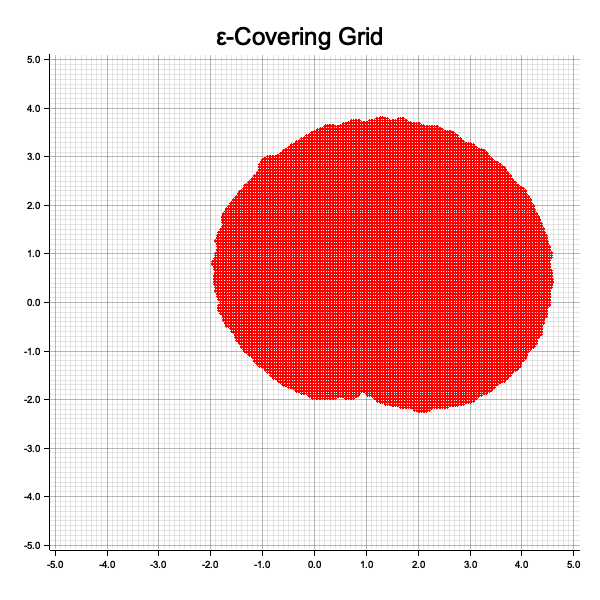
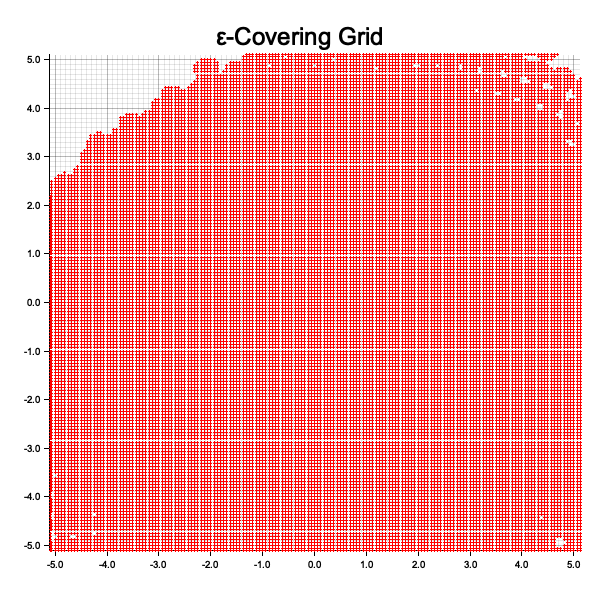
added brute force

diff --git a/src/main.rs b/src/main.rs
@@ -1,115 +1,55 @@
 use landau::covering_grids::{
-    self, create_covering_grid, extreme_points, plot_covering_grid, unit_disk_n,
+    self, create_covering_grid, extreme_points, grid_approx, grid_complement, unit_disk_n,
 };
 use landau::dyadic::{psi, ComplexDyadic, Dyadic, Interval};
 use landau::holomorphic::{
     comp_vec_to_sequence, vec_to_sequence, BoundingSequence, ComplexFunction, ExpansionCoefficients,
 };
+use landau::plot::{self, plot_covering_grid, plot_set};
 use landau::psi::{mu_first, mu_second, psi_infinity};
 
+use landau::covering_grids::{create_covering_grid, plot_covering_grid, unit_disk_n};
+use landau::dyadic::{psi, ComplexDyadic, Dyadic, Interval};
+use landau::holomorphic::{
+    comp_vec_to_sequence, vec_to_sequence, BoundingSequence, ComplexFunction, ExpansionCoefficients,
+};
+use landau::psi::{mu_first, mu_second, psi_infinity};
 use plotters::prelude::*;
-use landau::dyadic::{Dyadic, ComplexDyadic, Interval, psi} ;
-use landau::psi::{mu_first, mu_second, psi_infinity} ;
-use landau::covering_grids::{unit_disk_n, create_covering_grid, plot_covering_grid} ;
-use landau::holomorphic::{ComplexFunction, vec_to_sequence, comp_vec_to_sequence, BoundingSequence, ExpansionCoefficients} ;
 
 use std::collections::LinkedList;
 
-fn main() -> Result<(), Box<dyn std::error::Error>> 
-fn main() // Result<(), Box<dyn std::error::Error>>
-{
-    // let x = Dyadic::new(3, -1);
-    // let m_seq = vec![x.clone(), x.clone(), x.clone()];
-    // let x = Dyadic::new(3, -1) ;
-    // let m_seq = vec![x.clone(), x.clone(), x.clone()] ;
-    // let t_seq = vec![0, 1, 0, 1, 2, 1, 4, 1, 2, 4, 4, 3, 1, 4, 5];
-    // let word = vec![1, 3, 2, 1, 2, 4, 3, 1, 2, 3, 1, 2, 3, 1, 3, 2];
-    // let holo = psi_infinity(&m_seq, &t_seq, &word);
-    // let points1 = unit_disk_n(-1);
-
-    // let f = ComplexFunction::new(
-    //     BoundingSequence::new(m_seq),
-    //     ExpansionCoefficients::new(holo),
-    // );
-    // println!("Complex function compiled");
-    // TODO use holomprphic.rs to represent the f above, then run the following code
-    // let mut points2 = Vec::new() ;
-    // println!("{}", f.eval(ComplexDyadic::new(x.clone(), x.clone())));
-    let x = Dyadic::new(1, 0);
-    let m_seq = vec![x.clone(), x.clone(), x.clone()];
-    // This is a polynomial with factors 1, 1, 1
-    let holo = vec![
-        ComplexDyadic::new(Dyadic::new(1, 0), Dyadic::new(0, 0)),
-        ComplexDyadic::new(Dyadic::new(1, 0), Dyadic::new(0, 0)),
-        ComplexDyadic::new(Dyadic::new(1, 0), Dyadic::new(0, 0)),
-    ];
+fn main() -> Result<(), Box<dyn std::error::Error>> {
+    let x = Dyadic::new(5, -1);
+    let m_seq = vec![x.clone(), x.clone(), x.clone(), x.clone()];
+    let t_seq = vec![0, 1, 0, 1, 2, 0, 1, 2, 2, 0, 1, 2, 3, 0, 1, 2, 3, 0];
+    let word = vec![1, 1, 1, 3, 2, 1, 3, 1, 2, 3, 1, 2, 3, 1, 3, 2, 1, 2, 3, 2];
+    let holo = psi_infinity(&m_seq, &t_seq, &word);
+    for t in &holo {
+        println!("{}", t)
+    }
+    println!("done");
+    let points1 = unit_disk_n(-6);
 
     let f = ComplexFunction::new(
         BoundingSequence::new(m_seq),
         ExpansionCoefficients::new(holo),
     );
-    println!("Complex function compiled");
-
-    println!(
-        "Function result: {}, {:?}",
-        f.eval(ComplexDyadic::new(Dyadic::new(1, 0), Dyadic::new(1, 0))),
-        f.expansion_coefficients
-    );
-    println!(
-        "Derivative result: {}, {:?}",
-        f.derivative()
-            .eval(ComplexDyadic::new(Dyadic::new(1, 0), Dyadic::new(1, 0))),
-        f.derivative().expansion_coefficients
-    )
-    // let root = BitMapBackend::new("dyadic_disk.png", (600, 600)).into_drawing_area();
-    // root.fill(&WHITE)?;
-
-    let mut chart = ChartBuilder::on(&root)
-        .caption("Dyadic Points in Unit Disk", ("sans-serif", 30))
-        .margin(20)
-        .x_label_area_size(30)
-        .y_label_area_size(30)
-        .build_cartesian_2d(-1.1..1.1, -1.1..1.1)?;
-
-    chart.configure_mesh().draw()?;
-
-    chart.draw_series(
-        points1.iter().map(|p| {
-            let (x, y) = (p.re.to_f64(), p.im.to_f64());
-            Circle::new((x, y), 3, RED.filled())
-        })
-    )?;
-    println!("Plot saved as 'dyadic_disk.png'");
-
-    // chart.draw_series(
-    //     points1.iter().map(|p| {
-    //         let (x, y) = (p.re.to_f64(), p.im.to_f64());
-    //         Circle::new((x, y), 3, RED.filled())
-    //     })
-    // )?;
-    // println!("Plot saved as 'dyadic_disk.png'");
-
-    let root2 = BitMapBackend::new("dyadic_image.png", (600, 600)).into_drawing_area();
-    root2.fill(&WHITE)?;
-
-    let mut chart2 = ChartBuilder::on(&root2)
-        .caption("Dyadic Image of Unit Disk", ("sans-serif", 30))
-        .margin(20)
-        .x_label_area_size(30)
-        .y_label_area_size(30)
-        .build_cartesian_2d(-5.1..5.1, -5.1..5.1)?;
-
-    chart2.configure_mesh().draw()?;
-
-    chart2.draw_series(
-        points2.iter().map(|p| {
-            let (x, y) = (p.re.to_f64(), p.im.to_f64());
-            Circle::new((x, y), 3, RED.filled())
-        })
-    )?;
-    println!("Plot saved as 'dyadic_image.png'");
-    let grid = create_covering_grid(&points2, Dyadic::new(1, -2), Dyadic::new(1, -5)) ;
+    println!("{}", f.eval(ComplexDyadic::new(x.clone(), x.clone())));
+    let mut points2 = Vec::new();
+    for x in &points1 {
+        points2.push(f.eval(*x))
+    }
+    let grid = create_covering_grid(&points2, Dyadic::new(1, -2), Dyadic::new(1, -4));
+    plot_set(&points2, "image2.png");
     plot_covering_grid(&grid, "covering_grid.png")?;
+    plot_covering_grid(
+        &grid_complement(&grid, Dyadic::new(1, -4)),
+        "complement.png",
+    )?;
+    println!(
+        "approximation is {}",
+        grid_approx(&grid, Dyadic::new(1, -4)).unwrap()
+    );
     Ok(())
 }
 // add these to tests!!!

diff --git a/src/covering_grids.rs b/src/covering_grids.rs
@@ -82,29 +82,59 @@ pub fn create_covering_grid(set : &Vec<ComplexDyadic>, epsilon : Dyadic, delta :
     grid
 }
 
-pub fn plot_covering_grid(grid: &HashSet<ComplexDyadic>, filename: &str) -> Result<(), Box<dyn std::error::Error>> {
-    let root = BitMapBackend::new(filename, (600, 600)).into_drawing_area();
-    root.fill(&WHITE)?;
+pub fn grid_complement(grid : &HashSet<ComplexDyadic>, delta : Dyadic) -> HashSet<ComplexDyadic> {
+    let extremes = extreme_points(&grid.iter().copied().collect()).unwrap();
+    let min_real = extremes[0].re.to_f64();
+    let max_real = extremes[1].re.to_f64();
+    let min_imag = extremes[2].im.to_f64();
+    let max_imag = extremes[3].im.to_f64();
 
-    let range = -5.1f64..5.1f64;
+    let delta_f64 = delta.to_f64();
 
-    let mut chart = ChartBuilder::on(&root)
-        .caption("ε-Covering Grid", ("sans-serif", 30))
-        .margin(20)
-        .x_label_area_size(30)
-        .y_label_area_size(30)
-        .build_cartesian_2d(range.clone(), range.clone())?;
+    let r_start = (min_real / delta_f64).floor() as i64 - 1;
+    let r_end   = (max_real / delta_f64).ceil() as i64 + 1;
+    let i_start = (min_imag / delta_f64).floor() as i64 - 1;
+    let i_end   = (max_imag / delta_f64).ceil() as i64 + 1;
 
-    chart.configure_mesh().draw()?;
-
-    chart.draw_series(
-        grid.iter().map(|z| {
-            let (x, y) = (z.re.to_f64(), z.im.to_f64());
-            Circle::new((x, y), 1, RED.filled())
-        })
-    )?;
-
-    println!("Grid plotted to {}", filename);
-    Ok(())
+    let mut full_grid = HashSet::new();
+    for dr in r_start..=r_end {
+        for di in i_start..=i_end {
+            let point: ComplexDyadic = ComplexDyadic::new(Dyadic::new(dr as i128, 0) * delta, Dyadic::new(di as i128, 0) * delta) ;
+            full_grid.insert(point);
+        }
+    } ;
+    for g in grid {
+        full_grid.remove(g);
+    }
+    full_grid
 }
+
+pub fn grid_approx(grid : &HashSet<ComplexDyadic>, delta : Dyadic) -> Option<f64> {
+    let mut max : Option<f64> = Some(delta.to_f64()) ;
+    let comp = grid_complement(grid, delta) ;
+    for point1 in grid{
+        let mut min : Option<f64> = None ;
+        for point2 in &comp {
+            let dist = (*point1 - *point2).abs() ;
+            if let Some(current_min) = min {
+                if dist < current_min {
+                    min = Some(dist)
+                }
+            }
+            else {
+                min = Some(dist)
+            }
+        }
+        if let Some(current_max) = max {
+            if min.unwrap() > current_max {
+                max = Some(min.unwrap())
+            }
+        }
+        else {
+            max = Some(min.unwrap())
+        }
+    }
+    max
+}
+
 

diff --git a/src/plot.rs b/src/plot.rs
@@ -1,6 +1,8 @@
 use crate::dyadic::{Dyadic, ComplexDyadic} ;
 use crate::covering_grids::{extreme_points};
 use plotters::prelude::*;
+use std::collections::HashSet;
+
 
 
 pub fn plot_set(points: &Vec<ComplexDyadic>, filename : &str) -> Result<(), Box<dyn std::error::Error>>{
@@ -28,5 +30,31 @@ pub fn plot_set(points: &Vec<ComplexDyadic>, filename : &str) -> Result<(), Box<
     )?;
 
     println!("Plot saved to '{}'", filename);
+    Ok(())
+}
+
+pub fn plot_covering_grid(grid: &HashSet<ComplexDyadic>, filename: &str) -> Result<(), Box<dyn std::error::Error>> {
+    let root = BitMapBackend::new(filename, (600, 600)).into_drawing_area();
+    root.fill(&WHITE)?;
+
+    let range = -5.1f64..5.1f64;
+
+    let mut chart = ChartBuilder::on(&root)
+        .caption("ε-Covering Grid", ("sans-serif", 30))
+        .margin(20)
+        .x_label_area_size(30)
+        .y_label_area_size(30)
+        .build_cartesian_2d(range.clone(), range.clone())?;
+
+    chart.configure_mesh().draw()?;
+
+    chart.draw_series(
+        grid.iter().map(|z| {
+            let (x, y) = (z.re.to_f64(), z.im.to_f64());
+            Circle::new((x, y), 1, RED.filled())
+        })
+    )?;
+
+    println!("Grid plotted to {}", filename);
     Ok(())
 }

diff --git a/src/psi.rs b/src/psi.rs
@@ -24,6 +24,7 @@ fn select_matching(n: u32, vec1: &Vec<u32>, vec2: &Vec<u8>) -> Vec<u8> { //words
 
 pub fn psi_infinity(m_seq: &Vec<Dyadic>, t_seq : &Vec<u32>, word : &Vec<u8>) -> Vec<ComplexDyadic> {
     let mut out = Vec::new() ;
+    out.push(ComplexDyadic::new(Dyadic::new(0,0), Dyadic::new(0, 0)));
     out.push(ComplexDyadic::new(Dyadic::new(1,0), Dyadic::new(0, 0)));
     for n in 0..m_seq.len() {
         let word_on_step = select_matching(n as u32, t_seq, word) ;
@@ -31,13 +32,13 @@ pub fn psi_infinity(m_seq: &Vec<Dyadic>, t_seq : &Vec<u32>, word : &Vec<u8>) -> 
         let word_as_list = vec_to_linked_list(word_on_step) ;
 
         let interval2 = psi(interval1, &word_as_list) ;
-
         let mid = interval2.midpoint();
         match mid {
             Some(x) => out.push(x), 
             None => panic!("Empty interval")
         }    
     }
+    
     return out
 }
 

diff --git a/src/holomorphic.rs b/src/holomorphic.rs
@@ -110,11 +110,11 @@ impl ComplexFunction {
     pub fn eval(&self, z: ComplexDyadic) -> ComplexDyadic {
         let mut sum = ComplexDyadic::zero();
         for i in 0..=self.expansion_coefficients.vector.len() - 1 {
-            println!("{}, {}", sum, i);
+            // println!("{}, {}", sum, i);
             sum = sum + self.expansion_coefficients.vector[i as usize] * (z.powi((i + 1) as i32));
-            println!("{}", sum)
+            // println!("{}", sum)
         }
-        return sum + ComplexDyadic::one();
+        return sum;
     }
 
     // This could need to be checked if it works properly.

diff --git a/src/dyadic.rs b/src/dyadic.rs
@@ -168,7 +168,7 @@ impl ComplexDyadic {
 
         let mut result = ComplexDyadic::one();
         for _ in 0..power {
-            println!("{result}");
+            // println!("{result}");
             result = result * self;
         }
         result

diff --git a/src/lib.rs b/src/lib.rs
@@ -2,3 +2,4 @@ pub mod dyadic;
 pub mod psi ;
 pub mod holomorphic;
 pub mod covering_grids;
+pub mod plot ;
